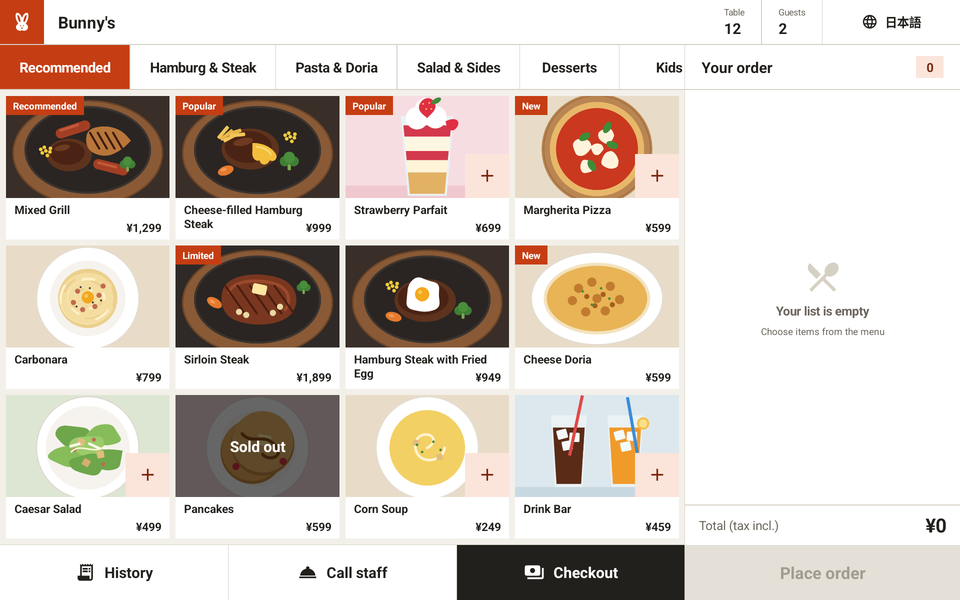
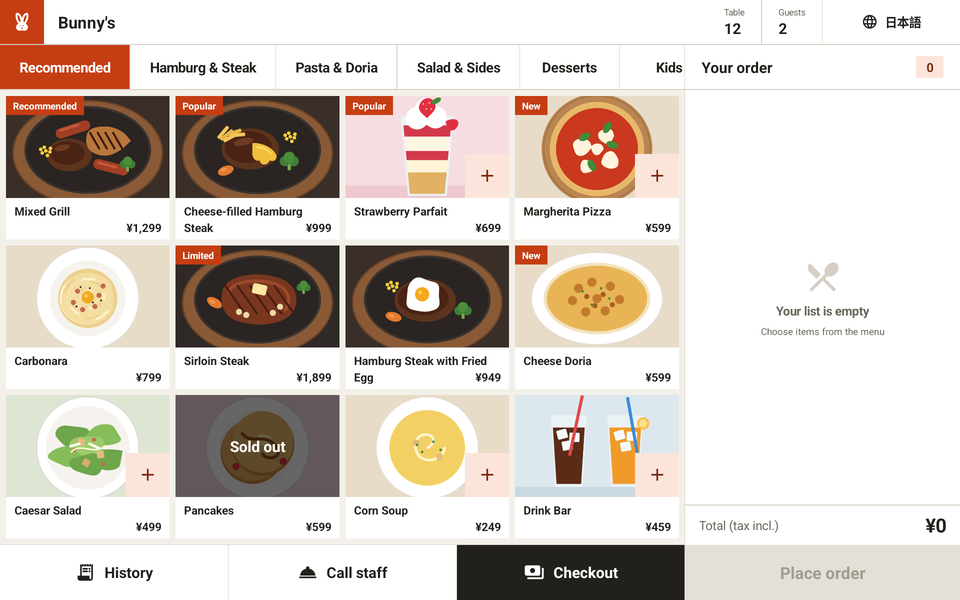
カードの価格を英語の名前の 2 行目にそろえ、注文リストのオプションを折り返す
- 行の高さを固定する添付プロパティ (LabelOption.FixedLineHeight) を足し、カードの名前と価格を同じ行の組み方にして、価格を名前の 2 行目にそろえる (英字と和文で行の高さが変わらないように)
- MAUI の Label.LineHeight と名前を分け、装飾付きの文字 (FormattedText) でも TextView にラベルのフォントを設定してから行の高さを決める
- カードの文字の上の余白を広げ、名前の位置を前と同じにする
- 注文リストのオプションを省略せずに折り返し、左端を料理名にそろえる (列の間隔をやめて、食後の印と金額の余白で空ける)
- 規則 (カードの価格、注文の内容を省略しない、列の間隔、行の高さ、添付プロパティの名前)、計画、エミュレータの手順 (No assemblies found のときは --embed) を足す
- README の画像 (注文、英語、注文の確認) を撮り直す

diff --git a/src/TableOrder.Terminal.Table/Resources/Styles/Styles.xaml b/src/TableOrder.Terminal.Table/Resources/Styles/Styles.xaml
@@ -652,11 +652,13 @@
     <Style x:Key="MenuCardTextGrid"
            TargetType="Grid">
         <Setter Property="HeightRequest" Value="60" />
-        <Setter Property="Padding" Value="12,5,12,6" />
+        <Setter Property="Padding" Value="12,9,12,3" />
     </Style>
 
+    <!-- 行の高さを固定して、英字と和文で 2 行目の位置を同じにする (価格をそこにそろえる) -->
     <Style x:Key="MenuCardNameLabel"
            TargetType="Label">
+        <Setter Property="behaviors:LabelOption.FixedLineHeight" Value="24" />
         <Setter Property="VerticalOptions" Value="Start" />
         <Setter Property="MaxLines" Value="2" />
         <Setter Property="LineBreakMode" Value="TailTruncation" />
@@ -674,12 +676,15 @@
         <Setter Property="TextColor" Value="{StaticResource SurfaceColor}" />
     </Style>
 
+    <!-- 名前の 2 行目の位置 (1 行の高さの下) に置く。名前と同じ行の組み方 (行の高さとフォントの余白) にして、文字の位置を 2 行目とそろえる -->
     <!-- 3 行に及ぶ長い名前は 2 行目の末尾が価格の下に入るので、価格の左右を面の色で塗って重なりを隠す -->
     <Style x:Key="MenuCardPriceLabel"
            TargetType="Label">
+        <Setter Property="behaviors:LabelOption.FixedLineHeight" Value="24" />
+        <Setter Property="Margin" Value="0,24,0,0" />
         <Setter Property="Padding" Value="8,0,0,0" />
         <Setter Property="HorizontalOptions" Value="End" />
-        <Setter Property="VerticalOptions" Value="End" />
+        <Setter Property="VerticalOptions" Value="Start" />
         <Setter Property="FontSize" Value="17" />
         <Setter Property="FontAttributes" Value="Bold" />
         <Setter Property="TextColor" Value="{StaticResource OnSurfaceColor}" />
@@ -879,17 +884,18 @@
         <Setter Property="TextColor" Value="{StaticResource OnSurfaceColor}" />
     </Style>
 
+    <!-- 列の間隔は食後の印がない行にも残ってオプションが名前より右に寄るので、間隔は印と金額の余白で空ける -->
     <Style x:Key="CartLineDetailGrid"
            TargetType="Grid">
         <Setter Property="MinimumHeightRequest" Value="24" />
-        <Setter Property="ColumnSpacing" Value="8" />
+        <Setter Property="ColumnSpacing" Value="0" />
     </Style>
 
+    <!-- 選んだオプションは切らずに折り返して全部見せる -->
     <Style x:Key="CartLineOptionLabel"
            TargetType="Label">
         <Setter Property="VerticalOptions" Value="Center" />
-        <Setter Property="MaxLines" Value="1" />
-        <Setter Property="LineBreakMode" Value="TailTruncation" />
+        <Setter Property="LineBreakMode" Value="WordWrap" />
         <Setter Property="FontSize" Value="13" />
         <Setter Property="TextColor" Value="{StaticResource OnSurfaceVariantColor}" />
     </Style>
@@ -903,6 +909,12 @@
         <Setter Property="StrokeThickness" Value="0" />
         <Setter Property="StrokeShape" Value="Rectangle" />
         <Setter Property="BackgroundColor" Value="{StaticResource SurfaceVariantColor}" />
+    </Style>
+
+    <Style x:Key="CartTagBorder"
+           TargetType="Border"
+           BasedOn="{StaticResource TagBorder}">
+        <Setter Property="Margin" Value="0,0,8,0" />
     </Style>
 
     <Style x:Key="TagLabel"
@@ -930,6 +942,7 @@
 
     <Style x:Key="CartAmountLabel"
            TargetType="Label">
+        <Setter Property="Margin" Value="8,0,0,0" />
         <Setter Property="HorizontalOptions" Value="End" />
         <Setter Property="VerticalOptions" Value="Center" />
         <Setter Property="FontSize" Value="18" />

diff --git a/src/TableOrder.Terminal.Table/Modules/Menu/MenuView.xaml b/src/TableOrder.Terminal.Table/Modules/Menu/MenuView.xaml
@@ -314,7 +314,7 @@
                                           ColumnDefinitions="Auto,*,Auto"
                                           InputTransparent="True">
                                         <Border Grid.Column="0"
-                                                Style="{StaticResource TagBorder}"
+                                                Style="{StaticResource CartTagBorder}"
                                                 IsVisible="{Binding IsAfterMeal}">
                                             <Label Style="{StaticResource TagLabel}"
                                                    Text="{x:Static strings:AppResources.AfterMealTag}" />

diff --git a/src/TableOrder.Terminal.Table/Behaviors/LabelOption.android.cs b/src/TableOrder.Terminal.Table/Behaviors/LabelOption.android.cs
@@ -1,8 +1,11 @@
 namespace TableOrder.Terminal.Table.Behaviors;
 
+using Android.Util;
 using Android.Widget;
 
+using Microsoft.Extensions.DependencyInjection;
 using Microsoft.Maui.Handlers;
+using Microsoft.Maui.Platform;
 
 public static partial class LabelOption
 {
@@ -29,6 +32,33 @@ public static partial class LabelOption
                 if (GetAutoSize(label))
                 {
                     UpdateLabelSize(handler, label);
+                }
+            });
+        }
+
+        if (options.FixedLineHeight)
+        {
+            // 和文は字形を補うフォント (CJK) の高さで行が広がり、英字の行より高くなる
+            // 行を広げずに高さを固定して、英字と和文で同じ行の高さにする
+            // 1 行目の上だけに付くフォントの余白も外し、どの行も同じ組み方にする (別のラベルを行の位置にそろえられるように)
+            // 行の間隔は設定したときのフォントの高さから決まるので、字の大きさを後から変えるラベルには使わない
+            LabelHandler.Mapper.AppendToMapping(FixedLineHeightProperty.PropertyName, static (handler, view) =>
+            {
+                var label = (Label)view;
+                var height = GetFixedLineHeight(label);
+                if (height > 0)
+                {
+                    var textView = handler.PlatformView;
+                    // 装飾付きの文字 (FormattedText) では MAUI が TextView 自体のフォントを設定せず、既定の字の大きさで行の間隔が決まってしまう
+                    // 表示は文字の装飾の側のフォントで決まるので、TextView にラベルのフォントを設定しても見た目は変わらない
+                    if (label.FormattedText is not null)
+                    {
+                        textView.UpdateFont(label, handler.MauiContext!.Services.GetRequiredService<IFontManager>());
+                    }
+
+                    textView.FallbackLineSpacing = false;
+                    textView.SetIncludeFontPadding(false);
+                    textView.LineHeight = (int)Math.Round(TypedValue.ApplyDimension(ComplexUnitType.Dip, (float)height, textView.Resources!.DisplayMetrics));
                 }
             });
         }

diff --git a/src/TableOrder.Terminal.Table/Behaviors/LabelOption.cs b/src/TableOrder.Terminal.Table/Behaviors/LabelOption.cs
@@ -27,4 +27,18 @@ public static partial class LabelOption
     public static double GetMaxSize(BindableObject bindable) => (double)bindable.GetValue(MaxSizeProperty);
 
     public static void SetMaxSize(BindableObject bindable, double value) => bindable.SetValue(MaxSizeProperty, value);
+
+    // 行の高さ (dp。0 は指定なし)。英字と和文で同じ行の高さにして、ほかの要素を行の位置にそろえるときに使う
+    // Label.LineHeight (倍率) と名前を分ける (同じ名前だと MAUI の対応付けに混ざり、装飾付きの文字で飛ばされる)
+    // ReSharper disable InconsistentNaming
+    public static readonly BindableProperty FixedLineHeightProperty = BindableProperty.CreateAttached(
+        "FixedLineHeight",
+        typeof(double),
+        typeof(LabelOption),
+        0d);
+    // ReSharper restore InconsistentNaming
+
+    public static double GetFixedLineHeight(BindableObject bindable) => (double)bindable.GetValue(FixedLineHeightProperty);
+
+    public static void SetFixedLineHeight(BindableObject bindable, double value) => bindable.SetValue(FixedLineHeightProperty, value);
 }

diff --git a/src/TableOrder.Terminal.Table/Behaviors/BehaviorOptions.cs b/src/TableOrder.Terminal.Table/Behaviors/BehaviorOptions.cs
@@ -12,6 +12,8 @@ public sealed class BehaviorOptions
 
     public bool AutoSize { get; set; } = true;
 
+    public bool FixedLineHeight { get; set; } = true;
+
     // Button
 
     public bool RippleEffect { get; set; } = true;

diff --git a/.claude/rules/terminal-ui.md b/.claude/rules/terminal-ui.md
@@ -2,6 +2,7 @@
 paths:
   - "src/TableOrder.Terminal.*/MainPage.xaml"
   - "src/TableOrder.Terminal.*/Modules/**"
+  - "src/TableOrder.Terminal.*/Behaviors/**"
   - "src/TableOrder.Terminal.*/Controls/**"
   - "src/TableOrder.Terminal.*/Extender/**"
   - "src/TableOrder.Terminal.*/Markup/**"
@@ -19,6 +20,8 @@ paths:
 - ヘッダとカテゴリのタブは別の帯にする (1 本にまとめない)
 - メニューのカードは 4 列 3 段を 1 画面に見せる。高さが足りないときはカードの間隔と帯を詰め、帯は押せる面の高さより低くしない
 - カードの文字は 2 行の高さで揃える。名前の 1 行目は価格の上まで使い、価格は最後の行の右に置く (名前の後ろに価格と同じ文字を面の色で続けて幅を確保し、見える価格を重ねる)
+- カードの価格は名前と同じ行の高さにして 1 行の高さだけ下げ、名前の 2 行目にそろえる
+- 注文の内容 (選んだオプションなど) は省略 (…) せずに折り返して全部見せる
 - 起動・端末の設定・電卓はシステムの画面とし、チェーンの色ではなく System の役割の色とシステムのロゴで組む
 
 ## 色
@@ -54,6 +57,9 @@ paths:
 ## 配置
 
 - 折り返して並べるタイルは `FlexLayout` を使わず、行に分けて `HorizontalStackLayout` で並べる (`FlexLayout` は縦の大きさを誤る)
+- 表示を切り替える要素の列がある Grid は `ColumnSpacing` を使わず、要素の `Margin` で間を空ける (見えない列にも間隔が残り、隣の要素がずれる)
+- ほかの要素を行の位置にそろえるラベルは `behaviors:LabelOption.FixedLineHeight` で行の高さを固定する (和文は CJK のフォントで行が広がり、英字と行の位置が変わる)
+- 添付プロパティ (`Behaviors`) は MAUI のプロパティと同じ名前にしない (ハンドラの対応付けの同じキーに混ざり、Controls が飛ばす処理で一緒に飛ばされる)
 - `GridItemsLayout` の間隔は端の項目の外側と見出し・末尾にも半分ずつ入る。外側の余白は `CollectionView` の `Margin` と見出しの高さからその分を引いて決める
 - 画面全体のタッチ (待受など) は一番下の面に付け、上に重ねるボタンを含む親に `TapGestureRecognizer` を付けない (子のボタンのタップも拾う)
 - 全画面と専用端末 (ロックタスク、Device Owner の制限、一時的な解除) は `Components/KioskManager` にまとめ、画面から直接 Android の API を呼ばない

diff --git a/docs/plan.md b/docs/plan.md
@@ -199,9 +199,11 @@
 - ヘッダ: チェーンの名前、テーブル番号と人数、言語の切り替え (日本語 / English)
 - カード: 写真、料理名 (2 行まで)、価格 (税込)、印 (おすすめ、人気、NEW、期間限定)、品切れの幕、すぐ入れる + (オプションのない商品だけ。写真の右下に重ねる)
 - カードの文字は 2 行の高さで揃える。  
-  料理名の 1 行目は価格の上まで使い、2 行目に入ったときだけ価格の分を空けて、価格は最後の行の右に置く
+  料理名の 1 行目は価格の上まで使い、2 行目に入ったときだけ価格の分を空けて、価格は最後の行の右に置く。  
+  行の高さは固定し、英語でも価格を料理名の 2 行目にそろえる
 - カードを押すと商品の詳細 (プレビュー) を開く
 - 注文リストの行: 上の段に料理名と数量の増減 (0 で削除)、下の段に食後の印、選んだオプション、金額。  
+  オプションは省略せずに折り返して全部見せる。  
   行を押すと詳細を開いて直せる
 - 注文の確定は、リストが空のときは押せない
 

diff --git a/.claude/skills/emulator/SKILL.md b/.claude/skills/emulator/SKILL.md
@@ -16,6 +16,7 @@ description: 端末アプリ (MAUI Android、タブレット横向き) をエミ
 - エミュレータを起動する: `emu.py avds` で名前を見て、`emu.py boot <名前>` (起動の完了まで待つ。起動済みなら何もしない)。対象はタブレット (1920x1200、横向き) の AVD
 - `emu.py devices` で使う機器を確かめる
 - 入れる: `emu.py install` (Debug。ビルドから起動まで数分かかる)。Release は `--release`
+- 起動してすぐ落ち、logcat に `No assemblies found` が出るとき (高速配置の本体が端末にない) は、`emu.py install --embed` で本体を APK に含めて入れ直す
 
 ## 操作
 
